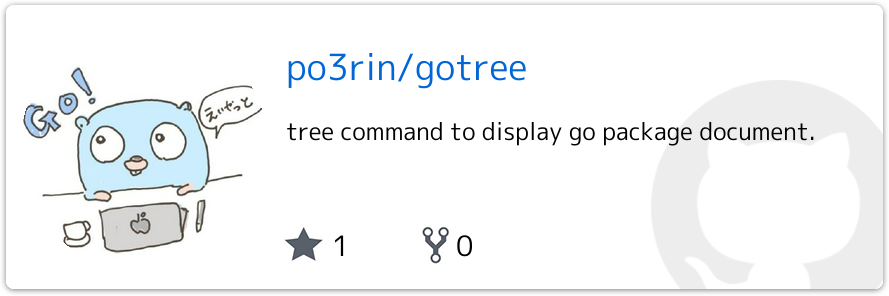
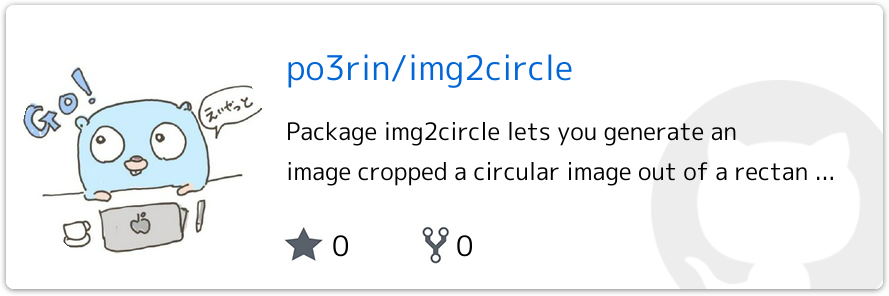
text split

diff --git a/pipeline/pipeline.go b/pipeline/pipeline.go
@@ -2,8 +2,10 @@ package pipeline
 
 import (
 	"context"
+	"fmt"
 	"image"
 	"strconv"
+	"strings"
 
 	"github.com/po3rin/github_link_creator/config"
 	"github.com/po3rin/github_link_creator/entity"
@@ -42,7 +44,28 @@ func ProcessingImg(ctx context.Context, r Repoitory, userName string, repoName s
 	}
 
 	img = DrawText(synthesizedImg, config.Title, repo.Name)
-	img = DrawText(img, config.Description, repo.Description)
+
+	if len(repo.Description) < 45 {
+		img = DrawText(img, config.FirstDescription, repo.Description)
+	} else {
+		desc := repo.Description
+		if len(repo.Description) > 86 {
+			desc = repo.Description[:86] + " ..."
+		}
+		words := strings.Split(desc, " ")
+		var firstline, secondline string
+		for _, w := range words {
+			firstline += w + " "
+			fmt.Println(firstline)
+			if len(firstline) >= 40 {
+				img = DrawText(img, config.FirstDescription, firstline)
+				secondline = strings.TrimPrefix(desc, firstline)
+				img = DrawText(img, config.SecondDescription, secondline)
+				break
+			}
+		}
+	}
+
 	img = DrawText(img, config.Star, strconv.Itoa(repo.Stars))
 	img = DrawText(img, config.Fork, strconv.Itoa(repo.Forks))
 

diff --git a/config/config.go b/config/config.go
@@ -20,8 +20,10 @@ type Text struct {
 var (
 	// Title is github repo name.
 	Title Text
-	// Description is github repo description.
-	Description Text
+	// FirstDescription is github repo description in First line.
+	FirstDescription Text
+	// SecondDescription is github repo description in First line.
+	SecondDescription Text
 	// Star is github repo star.
 	Star Text
 	// Fork is github repo fork.
@@ -43,10 +45,15 @@ func init() {
 	Title.PosHorizontal = 286
 	Title.PosVertical = 80
 
-	Description.Size = 24.0
-	Description.Color = color.RGBA{R: 0, G: 0, B: 0, A: 255}
-	Description.PosHorizontal = 286
-	Description.PosVertical = 140
+	FirstDescription.Size = 24.0
+	FirstDescription.Color = color.RGBA{R: 0, G: 0, B: 0, A: 255}
+	FirstDescription.PosHorizontal = 286
+	FirstDescription.PosVertical = 140
+
+	SecondDescription.Size = 24.0
+	SecondDescription.Color = color.RGBA{R: 0, G: 0, B: 0, A: 255}
+	SecondDescription.PosHorizontal = 286
+	SecondDescription.PosVertical = 180
 
 	Star.Size = 28.0
 	Star.Color = color.RGBA{R: 0, G: 0, B: 0, A: 255}

diff --git a/README.md b/README.md
@@ -1,8 +1,14 @@
-# GitHub Link Card Creater
+<p align="center">
+  <img alt="GoReleaser Logo" src="src/gopher.jpg" height="100"/>
+  <h3 align="center">GitHub Link Card Creater</h3>
+  <p align="center">GitHub Link Card Creator lets you generate GitHub images has links to repositories.</p>
+</p>
+
+---
 
 <img src="https://img.shields.io/badge/go-v1.11-blue.svg"/>
 
-GitHub Link Image Creator lets you generate GitHub images has links to repositories.
+GitHub Link Card Creator lets you generate GitHub images has links to repositories.
 
 <img src="example.png">
 
@@ -21,7 +27,7 @@ $ go get github.com/po3rin/cmd/repoimg
 this lets you generate repository card in local.
 
 ```bash
-go run cmd/repoimg/main.go -n po3rin/gotree
+repoimg -n po3rin/gotree
 ```
 
 ### Server Mode
